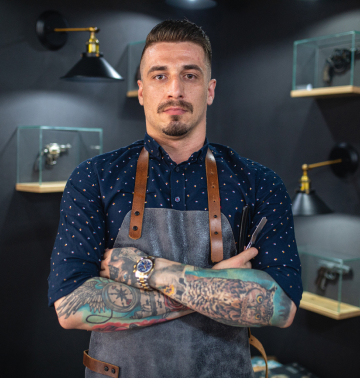
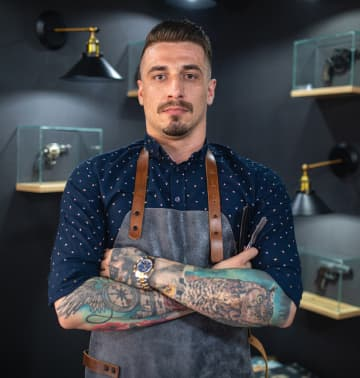
Минификация картинок

diff --git a/index.html b/index.html
@@ -21,8 +21,8 @@
                 <div class="adaptiv__header-number"><a href="tel:+7943245124458">7 (943) 245-124-458</a></div>
                 <a href="#" class="logo__link"><img src="images/logo/logo.svg" alt="" class="header__logo"></a>
                 <h1 class="header__title">Barbershop <span>Velial</span></h1>
-                <h3 class="header__descr">Профессиональная забота о Вашем внешнем виде<h3>
-                        <button class="button button__header">Записаться</button>
+                <h3 class="header__descr">Профессиональная забота о Вашем внешнем виде</h3>
+                <button class="button button__header">Записаться</button>
             </div>
         </div>
 
@@ -31,8 +31,9 @@
         <div class="header__bottom">
             <div class="brown-block">
                 <div class="brown-block__wrapper">
-                    <address class="address"><span class="adaptiv">Наш адресс:</span> <span class="mark">Проезд Девичьего
-                            Поля, 4</span> Москва, Россия, 119121 Координаты: 55.737785, 37.577750</span>
+                    <address class="address"><span class="adaptiv">Наш адресс:</span> <span class="mark">Проезд
+                            Девичьего
+                            Поля, 4</span> Москва, Россия, 119121 Координаты: 55.737785, 37.577750
                     </address>
                     <div class="call"><span class="adaptiv">Наш телефон:</span>
                         <a class="mark" href="tel:+7943245124458">7 (943) 245-124-458</a> Каждый день с 11 до 21
@@ -199,7 +200,8 @@
 
                 <div class="footer__info-card">
                     <div class="footer__title">Контакты</div>
-                    <div class="footer__call"><a class="footer__call" href="tel:+7943245124458">7 (943) 245-124-458</a></div>
+                    <div class="footer__call"><a class="footer__call" href="tel:+7943245124458">7 (943) 245-124-458</a>
+                    </div>
                 </div>
 
 
@@ -216,42 +218,34 @@
                 <div class="footer__social">
 
 
-                    
-                        <a href="#" class="footer__social-link">
-                            <svg  class="facebook"  viewBox="0 0 27 27" 
-                                xmlns="http://www.w3.org/2000/svg">
-                                <path fill-rule="evenodd" clip-rule="evenodd"
-                                    d="M2.66667 0H24C25.4728 0 26.6667 1.19391 26.6667 2.66667V24C26.6667 25.4728 25.4728 26.6667 24 26.6667H2.66667C1.19391 26.6667 0 25.4728 0 24V2.66667C0 1.19391 1.19391 0 2.66667 0ZM2.66667 2.66667V24H24V2.66667H2.66667ZM12.1774 13.3392H14.6667V21.3333H17.3333V13.3392H19.9766V10.6725H17.3333V9.33333C17.3333 8.59695 17.9303 8 18.6667 8H20V5.33333H18.6667C16.4575 5.33333 14.6667 7.12419 14.6667 9.33333V10.6725H12.1774V13.3392Z"/>
-                            </svg></a>
 
-                        <a href="#" class="footer__social-link">
-                            <svg class="instagram"  viewBox="0 0 256 256" version="1.1"
-                                xmlns="http://www.w3.org/2000/svg" xmlns:xlink="http://www.w3.org/1999/xlink"
-                                preserveAspectRatio="xMidYMid">
-                                <g>
-                                    <path
-                                        d="M127.999746,23.06353 C162.177385,23.06353 166.225393,23.1936027 179.722476,23.8094161 C192.20235,24.3789926 198.979853,26.4642218 203.490736,28.2166477 C209.464938,30.5386501 213.729395,33.3128586 218.208268,37.7917319 C222.687141,42.2706052 225.46135,46.5350617 227.782844,52.5092638 C229.535778,57.0201472 231.621007,63.7976504 232.190584,76.277016 C232.806397,89.7746075 232.93647,93.8226147 232.93647,128.000254 C232.93647,162.177893 232.806397,166.225901 232.190584,179.722984 C231.621007,192.202858 229.535778,198.980361 227.782844,203.491244 C225.46135,209.465446 222.687141,213.729903 218.208268,218.208776 C213.729395,222.687649 209.464938,225.461858 203.490736,227.783352 C198.979853,229.536286 192.20235,231.621516 179.722476,232.191092 C166.227425,232.806905 162.179418,232.936978 127.999746,232.936978 C93.8200742,232.936978 89.772067,232.806905 76.277016,232.191092 C63.7971424,231.621516 57.0196391,229.536286 52.5092638,227.783352 C46.5345536,225.461858 42.2700971,222.687649 37.7912238,218.208776 C33.3123505,213.729903 30.538142,209.465446 28.2166477,203.491244 C26.4637138,198.980361 24.3784845,192.202858 23.808908,179.723492 C23.1930946,166.225901 23.0630219,162.177893 23.0630219,128.000254 C23.0630219,93.8226147 23.1930946,89.7746075 23.808908,76.2775241 C24.3784845,63.7976504 26.4637138,57.0201472 28.2166477,52.5092638 C30.538142,46.5350617 33.3123505,42.2706052 37.7912238,37.7917319 C42.2700971,33.3128586 46.5345536,30.5386501 52.5092638,28.2166477 C57.0196391,26.4642218 63.7971424,24.3789926 76.2765079,23.8094161 C89.7740994,23.1936027 93.8221066,23.06353 127.999746,23.06353 M127.999746,0 C93.2367791,0 88.8783247,0.147348072 75.2257637,0.770274749 C61.601148,1.39218523 52.2968794,3.55566141 44.1546281,6.72008828 C35.7374966,9.99121548 28.5992446,14.3679613 21.4833489,21.483857 C14.3674532,28.5997527 9.99070739,35.7380046 6.71958019,44.1551362 C3.55515331,52.2973875 1.39167714,61.6016561 0.769766653,75.2262718 C0.146839975,88.8783247 0,93.2372872 0,128.000254 C0,162.763221 0.146839975,167.122183 0.769766653,180.774236 C1.39167714,194.398852 3.55515331,203.703121 6.71958019,211.845372 C9.99070739,220.261995 14.3674532,227.400755 21.4833489,234.516651 C28.5992446,241.632547 35.7374966,246.009293 44.1546281,249.28042 C52.2968794,252.444847 61.601148,254.608323 75.2257637,255.230233 C88.8783247,255.85316 93.2367791,256 127.999746,256 C162.762713,256 167.121675,255.85316 180.773728,255.230233 C194.398344,254.608323 203.702613,252.444847 211.844864,249.28042 C220.261995,246.009293 227.400247,241.632547 234.516143,234.516651 C241.632039,227.400755 246.008785,220.262503 249.279912,211.845372 C252.444339,203.703121 254.607815,194.398852 255.229725,180.774236 C255.852652,167.122183 256,162.763221 256,128.000254 C256,93.2372872 255.852652,88.8783247 255.229725,75.2262718 C254.607815,61.6016561 252.444339,52.2973875 249.279912,44.1551362 C246.008785,35.7380046 241.632039,28.5997527 234.516143,21.483857 C227.400247,14.3679613 220.261995,9.99121548 211.844864,6.72008828 C203.702613,3.55566141 194.398344,1.39218523 180.773728,0.770274749 C167.121675,0.147348072 162.762713,0 127.999746,0 Z M127.999746,62.2703115 C91.698262,62.2703115 62.2698034,91.69877 62.2698034,128.000254 C62.2698034,164.301738 91.698262,193.730197 127.999746,193.730197 C164.30123,193.730197 193.729689,164.301738 193.729689,128.000254 C193.729689,91.69877 164.30123,62.2703115 127.999746,62.2703115 Z M127.999746,170.667175 C104.435741,170.667175 85.3328252,151.564259 85.3328252,128.000254 C85.3328252,104.436249 104.435741,85.3333333 127.999746,85.3333333 C151.563751,85.3333333 170.666667,104.436249 170.666667,128.000254 C170.666667,151.564259 151.563751,170.667175 127.999746,170.667175 Z M211.686338,59.6734287 C211.686338,68.1566129 204.809755,75.0337031 196.326571,75.0337031 C187.843387,75.0337031 180.966297,68.1566129 180.966297,59.6734287 C180.966297,51.1902445 187.843387,44.3136624 196.326571,44.3136624 C204.809755,44.3136624 211.686338,51.1902445 211.686338,59.6734287 Z"
-                                        ></path>
-                                </g>
-                            </svg>
-                        </a>
+                    <a href="#" class="footer__social-link">
+                        <svg class="facebook" viewBox="0 0 27 27" xmlns="http://www.w3.org/2000/svg">
+                            <path fill-rule="evenodd" clip-rule="evenodd"
+                                d="M2.66667 0H24C25.4728 0 26.6667 1.19391 26.6667 2.66667V24C26.6667 25.4728 25.4728 26.6667 24 26.6667H2.66667C1.19391 26.6667 0 25.4728 0 24V2.66667C0 1.19391 1.19391 0 2.66667 0ZM2.66667 2.66667V24H24V2.66667H2.66667ZM12.1774 13.3392H14.6667V21.3333H17.3333V13.3392H19.9766V10.6725H17.3333V9.33333C17.3333 8.59695 17.9303 8 18.6667 8H20V5.33333H18.6667C16.4575 5.33333 14.6667 7.12419 14.6667 9.33333V10.6725H12.1774V13.3392Z" />
+                        </svg></a>
 
-                        <a href="#" class="footer__social-link">
-                            <svg class="twitter"  viewBox="0 0 29 26" 
-                                xmlns="http://www.w3.org/2000/svg">
-                                <path fill-rule="evenodd" clip-rule="evenodd"
-                                    d="M26.1594 4.01105L28.0457 4.23135L27.1978 5.93069C26.7843 6.75939 26.3704 7.58809 25.9561 8.41679C25.9069 8.59231 25.8206 8.74618 25.6929 8.94652C25.6395 9.03022 25.4572 9.2965 25.4487 9.30928C25.4006 9.38146 25.365 9.43839 25.3394 9.484V12.6687C25.3394 20.818 17.4527 25.9966 10.0047 25.9966C8.4807 25.9966 7.32278 25.9236 5.99688 25.6342C3.81489 25.1581 2.19105 24.2116 1.44798 22.5573L0.682968 20.8543L2.54214 20.6833C4.22403 20.5286 5.68227 20.2082 6.80213 19.7791C3.72771 19.2847 2.00482 17.9344 2.00482 15.3985V14.0652H3.33815C3.6311 14.0652 3.89526 14.0414 4.13141 13.9978C1.82402 12.6182 0.668316 10.4051 0.668316 7.33538C0.668064 7.20455 0.668064 7.20455 0.667277 7.06465C0.658609 5.51739 0.741717 4.69064 1.16528 3.63548C1.43674 2.95923 1.82913 2.3332 2.35722 1.75958L3.36337 0.666687L4.34159 1.78464C7.56527 5.46883 10.752 7.70396 14.0056 7.97431C14.0195 4.57475 16.5887 2.00205 20.0058 2.00205C21.5988 2.00205 23.0438 2.60671 24.1793 3.69699C24.8008 3.8247 25.4609 3.92948 26.1594 4.01105ZM23.2115 6.21604L22.8028 6.12349L22.5205 5.81372C21.838 5.06475 20.9813 4.66872 20.0058 4.66872C18.0552 4.66872 16.6722 6.05856 16.6722 8.00205C16.6722 8.31967 16.664 8.51925 16.6244 8.78155C16.4665 9.82824 15.8794 10.6687 14.6721 10.6687C10.6748 10.6687 7.06849 8.52724 3.55187 4.86973C3.37058 5.42083 3.32794 5.98732 3.3339 7.04971C3.3347 7.1918 3.3347 7.1918 3.33498 7.33538C3.33498 10.0661 4.44126 11.5597 7.06064 12.3923L7.99009 12.6877V13.663C7.99009 14.8456 6.86964 15.9589 5.23026 16.4575C5.98177 17.0277 7.51868 17.3354 10.0052 17.3354H11.3385V18.6687C11.3385 20.579 9.14351 22.0748 5.82768 22.8558C6.90906 23.1871 8.34889 23.3299 10.0047 23.3299C16.1573 23.3299 22.6727 19.0518 22.6727 12.6687V9.33538C22.6727 8.94367 22.7862 8.60367 22.9749 8.25015C23.0486 8.11192 23.1298 7.98015 23.2301 7.82985C23.2489 7.80156 23.3189 7.69904 23.3745 7.61708L23.4802 7.40574C23.6514 7.06329 23.8226 6.72083 23.9937 6.37838C23.7278 6.32801 23.4671 6.2739 23.2115 6.21604Z"/>
-                            </svg>
-                        </a>
-                 
-                </div>
+                    <a href="#" class="footer__social-link">
+                        <svg class="instagram" viewBox="0 0 256 256" version="1.1" xmlns="http://www.w3.org/2000/svg"
+                            xmlns:xlink="http://www.w3.org/1999/xlink" preserveAspectRatio="xMidYMid">
+                            <g>
+                                <path
+                                    d="M127.999746,23.06353 C162.177385,23.06353 166.225393,23.1936027 179.722476,23.8094161 C192.20235,24.3789926 198.979853,26.4642218 203.490736,28.2166477 C209.464938,30.5386501 213.729395,33.3128586 218.208268,37.7917319 C222.687141,42.2706052 225.46135,46.5350617 227.782844,52.5092638 C229.535778,57.0201472 231.621007,63.7976504 232.190584,76.277016 C232.806397,89.7746075 232.93647,93.8226147 232.93647,128.000254 C232.93647,162.177893 232.806397,166.225901 232.190584,179.722984 C231.621007,192.202858 229.535778,198.980361 227.782844,203.491244 C225.46135,209.465446 222.687141,213.729903 218.208268,218.208776 C213.729395,222.687649 209.464938,225.461858 203.490736,227.783352 C198.979853,229.536286 192.20235,231.621516 179.722476,232.191092 C166.227425,232.806905 162.179418,232.936978 127.999746,232.936978 C93.8200742,232.936978 89.772067,232.806905 76.277016,232.191092 C63.7971424,231.621516 57.0196391,229.536286 52.5092638,227.783352 C46.5345536,225.461858 42.2700971,222.687649 37.7912238,218.208776 C33.3123505,213.729903 30.538142,209.465446 28.2166477,203.491244 C26.4637138,198.980361 24.3784845,192.202858 23.808908,179.723492 C23.1930946,166.225901 23.0630219,162.177893 23.0630219,128.000254 C23.0630219,93.8226147 23.1930946,89.7746075 23.808908,76.2775241 C24.3784845,63.7976504 26.4637138,57.0201472 28.2166477,52.5092638 C30.538142,46.5350617 33.3123505,42.2706052 37.7912238,37.7917319 C42.2700971,33.3128586 46.5345536,30.5386501 52.5092638,28.2166477 C57.0196391,26.4642218 63.7971424,24.3789926 76.2765079,23.8094161 C89.7740994,23.1936027 93.8221066,23.06353 127.999746,23.06353 M127.999746,0 C93.2367791,0 88.8783247,0.147348072 75.2257637,0.770274749 C61.601148,1.39218523 52.2968794,3.55566141 44.1546281,6.72008828 C35.7374966,9.99121548 28.5992446,14.3679613 21.4833489,21.483857 C14.3674532,28.5997527 9.99070739,35.7380046 6.71958019,44.1551362 C3.55515331,52.2973875 1.39167714,61.6016561 0.769766653,75.2262718 C0.146839975,88.8783247 0,93.2372872 0,128.000254 C0,162.763221 0.146839975,167.122183 0.769766653,180.774236 C1.39167714,194.398852 3.55515331,203.703121 6.71958019,211.845372 C9.99070739,220.261995 14.3674532,227.400755 21.4833489,234.516651 C28.5992446,241.632547 35.7374966,246.009293 44.1546281,249.28042 C52.2968794,252.444847 61.601148,254.608323 75.2257637,255.230233 C88.8783247,255.85316 93.2367791,256 127.999746,256 C162.762713,256 167.121675,255.85316 180.773728,255.230233 C194.398344,254.608323 203.702613,252.444847 211.844864,249.28042 C220.261995,246.009293 227.400247,241.632547 234.516143,234.516651 C241.632039,227.400755 246.008785,220.262503 249.279912,211.845372 C252.444339,203.703121 254.607815,194.398852 255.229725,180.774236 C255.852652,167.122183 256,162.763221 256,128.000254 C256,93.2372872 255.852652,88.8783247 255.229725,75.2262718 C254.607815,61.6016561 252.444339,52.2973875 249.279912,44.1551362 C246.008785,35.7380046 241.632039,28.5997527 234.516143,21.483857 C227.400247,14.3679613 220.261995,9.99121548 211.844864,6.72008828 C203.702613,3.55566141 194.398344,1.39218523 180.773728,0.770274749 C167.121675,0.147348072 162.762713,0 127.999746,0 Z M127.999746,62.2703115 C91.698262,62.2703115 62.2698034,91.69877 62.2698034,128.000254 C62.2698034,164.301738 91.698262,193.730197 127.999746,193.730197 C164.30123,193.730197 193.729689,164.301738 193.729689,128.000254 C193.729689,91.69877 164.30123,62.2703115 127.999746,62.2703115 Z M127.999746,170.667175 C104.435741,170.667175 85.3328252,151.564259 85.3328252,128.000254 C85.3328252,104.436249 104.435741,85.3333333 127.999746,85.3333333 C151.563751,85.3333333 170.666667,104.436249 170.666667,128.000254 C170.666667,151.564259 151.563751,170.667175 127.999746,170.667175 Z M211.686338,59.6734287 C211.686338,68.1566129 204.809755,75.0337031 196.326571,75.0337031 C187.843387,75.0337031 180.966297,68.1566129 180.966297,59.6734287 C180.966297,51.1902445 187.843387,44.3136624 196.326571,44.3136624 C204.809755,44.3136624 211.686338,51.1902445 211.686338,59.6734287 Z">
+                                </path>
+                            </g>
+                        </svg>
+                    </a>
 
+                    <a href="#" class="footer__social-link">
+                        <svg class="twitter" viewBox="0 0 29 26" xmlns="http://www.w3.org/2000/svg">
+                            <path fill-rule="evenodd" clip-rule="evenodd"
+                                d="M26.1594 4.01105L28.0457 4.23135L27.1978 5.93069C26.7843 6.75939 26.3704 7.58809 25.9561 8.41679C25.9069 8.59231 25.8206 8.74618 25.6929 8.94652C25.6395 9.03022 25.4572 9.2965 25.4487 9.30928C25.4006 9.38146 25.365 9.43839 25.3394 9.484V12.6687C25.3394 20.818 17.4527 25.9966 10.0047 25.9966C8.4807 25.9966 7.32278 25.9236 5.99688 25.6342C3.81489 25.1581 2.19105 24.2116 1.44798 22.5573L0.682968 20.8543L2.54214 20.6833C4.22403 20.5286 5.68227 20.2082 6.80213 19.7791C3.72771 19.2847 2.00482 17.9344 2.00482 15.3985V14.0652H3.33815C3.6311 14.0652 3.89526 14.0414 4.13141 13.9978C1.82402 12.6182 0.668316 10.4051 0.668316 7.33538C0.668064 7.20455 0.668064 7.20455 0.667277 7.06465C0.658609 5.51739 0.741717 4.69064 1.16528 3.63548C1.43674 2.95923 1.82913 2.3332 2.35722 1.75958L3.36337 0.666687L4.34159 1.78464C7.56527 5.46883 10.752 7.70396 14.0056 7.97431C14.0195 4.57475 16.5887 2.00205 20.0058 2.00205C21.5988 2.00205 23.0438 2.60671 24.1793 3.69699C24.8008 3.8247 25.4609 3.92948 26.1594 4.01105ZM23.2115 6.21604L22.8028 6.12349L22.5205 5.81372C21.838 5.06475 20.9813 4.66872 20.0058 4.66872C18.0552 4.66872 16.6722 6.05856 16.6722 8.00205C16.6722 8.31967 16.664 8.51925 16.6244 8.78155C16.4665 9.82824 15.8794 10.6687 14.6721 10.6687C10.6748 10.6687 7.06849 8.52724 3.55187 4.86973C3.37058 5.42083 3.32794 5.98732 3.3339 7.04971C3.3347 7.1918 3.3347 7.1918 3.33498 7.33538C3.33498 10.0661 4.44126 11.5597 7.06064 12.3923L7.99009 12.6877V13.663C7.99009 14.8456 6.86964 15.9589 5.23026 16.4575C5.98177 17.0277 7.51868 17.3354 10.0052 17.3354H11.3385V18.6687C11.3385 20.579 9.14351 22.0748 5.82768 22.8558C6.90906 23.1871 8.34889 23.3299 10.0047 23.3299C16.1573 23.3299 22.6727 19.0518 22.6727 12.6687V9.33538C22.6727 8.94367 22.7862 8.60367 22.9749 8.25015C23.0486 8.11192 23.1298 7.98015 23.2301 7.82985C23.2489 7.80156 23.3189 7.69904 23.3745 7.61708L23.4802 7.40574C23.6514 7.06329 23.8226 6.72083 23.9937 6.37838C23.7278 6.32801 23.4671 6.2739 23.2115 6.21604Z" />
+                        </svg>
+                    </a>
                 </div>
             </div>
         </div>
 
-
-        </div>
     </footer>
 
 
